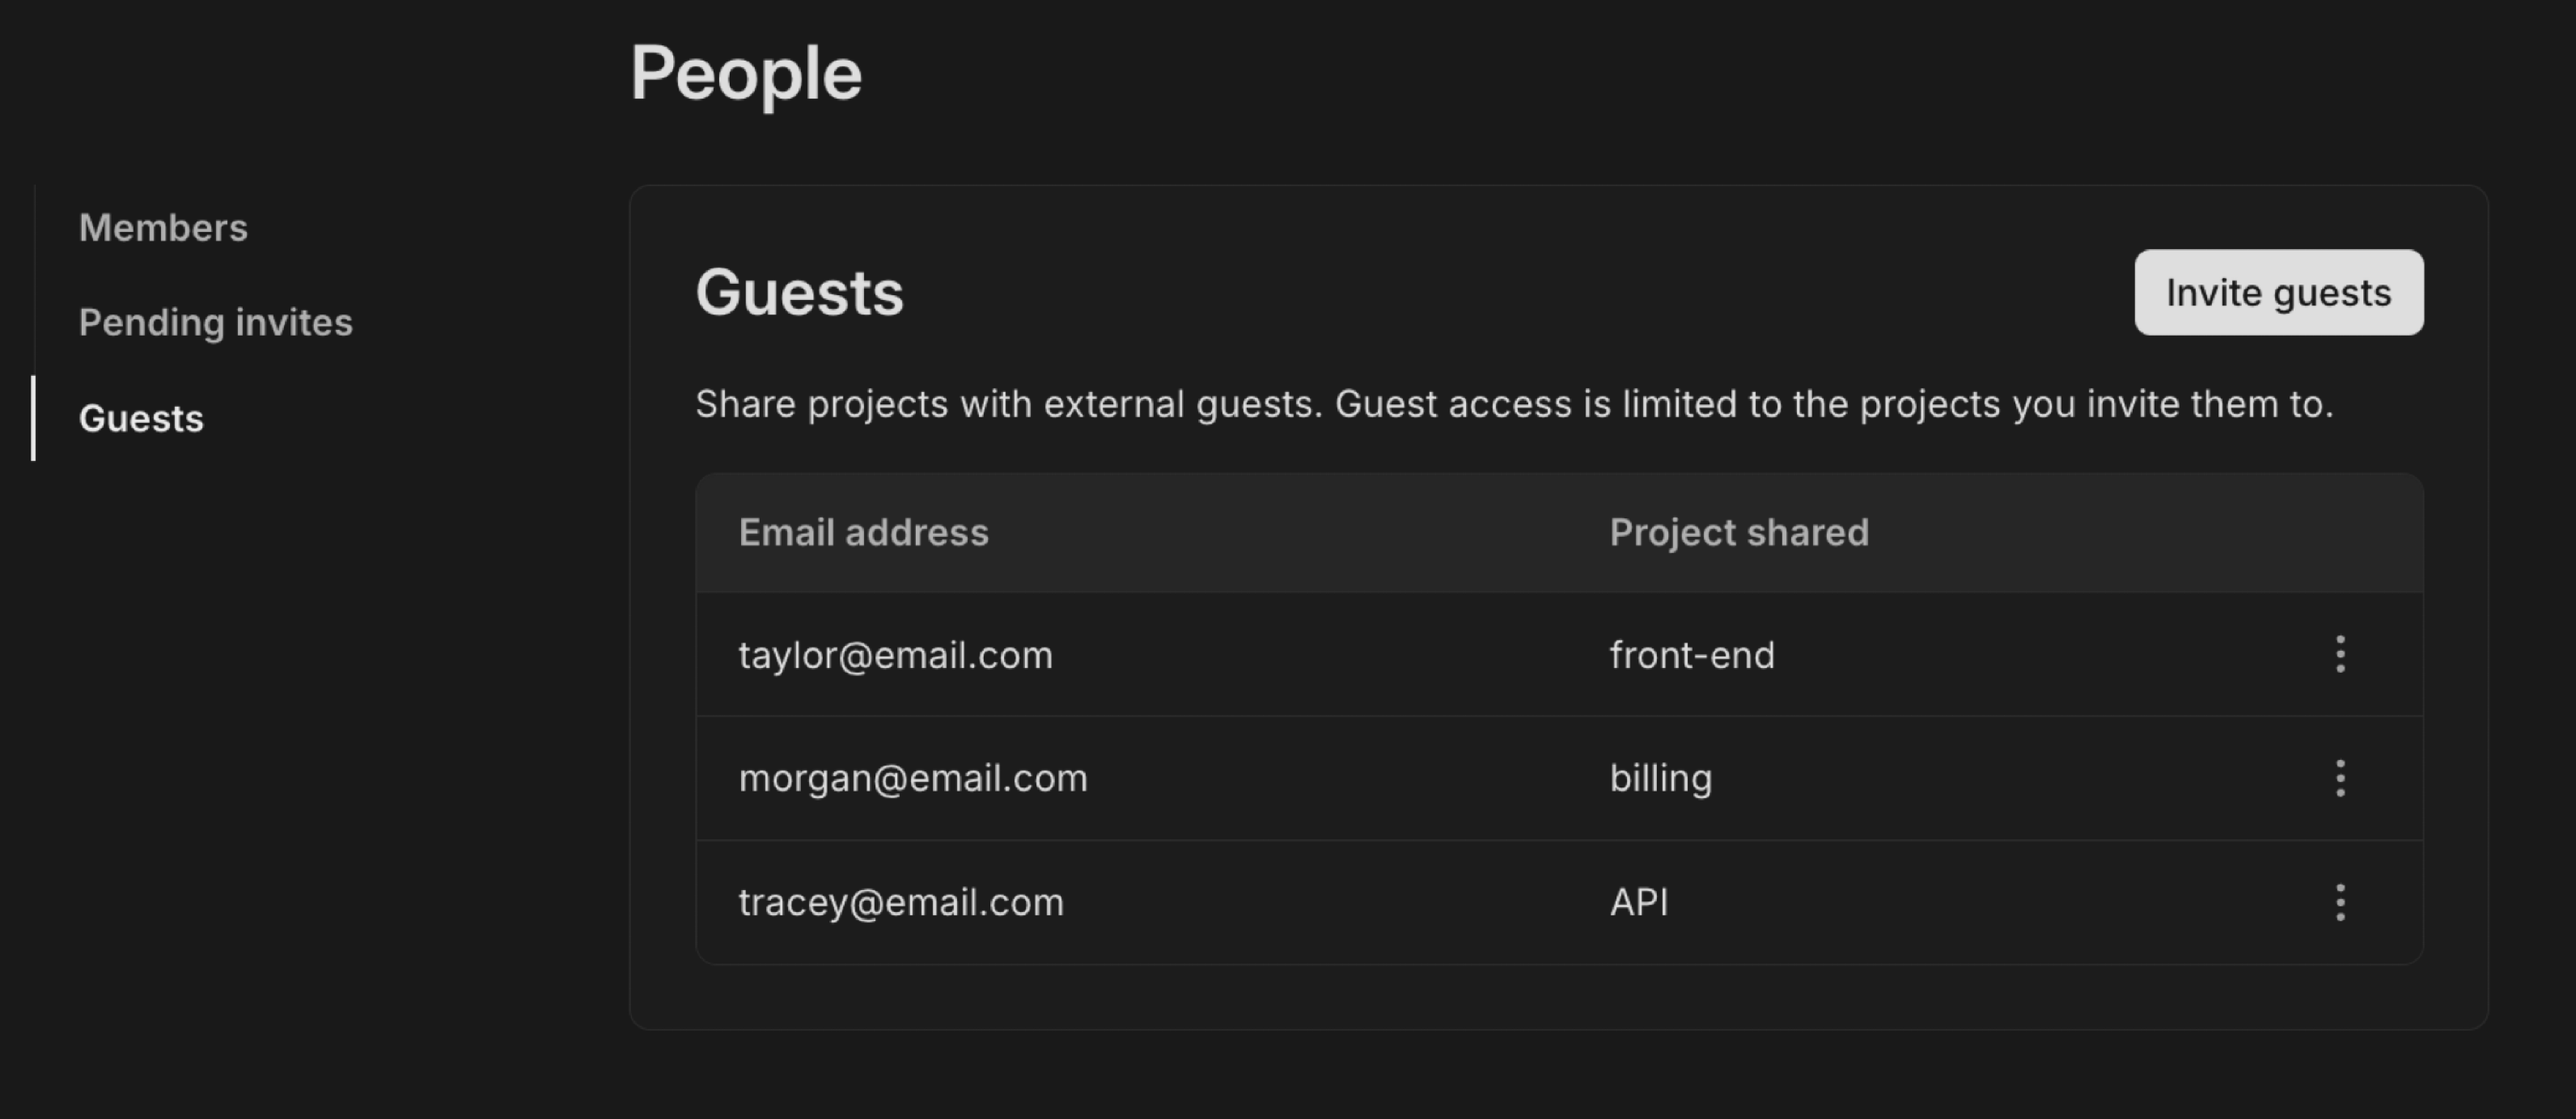
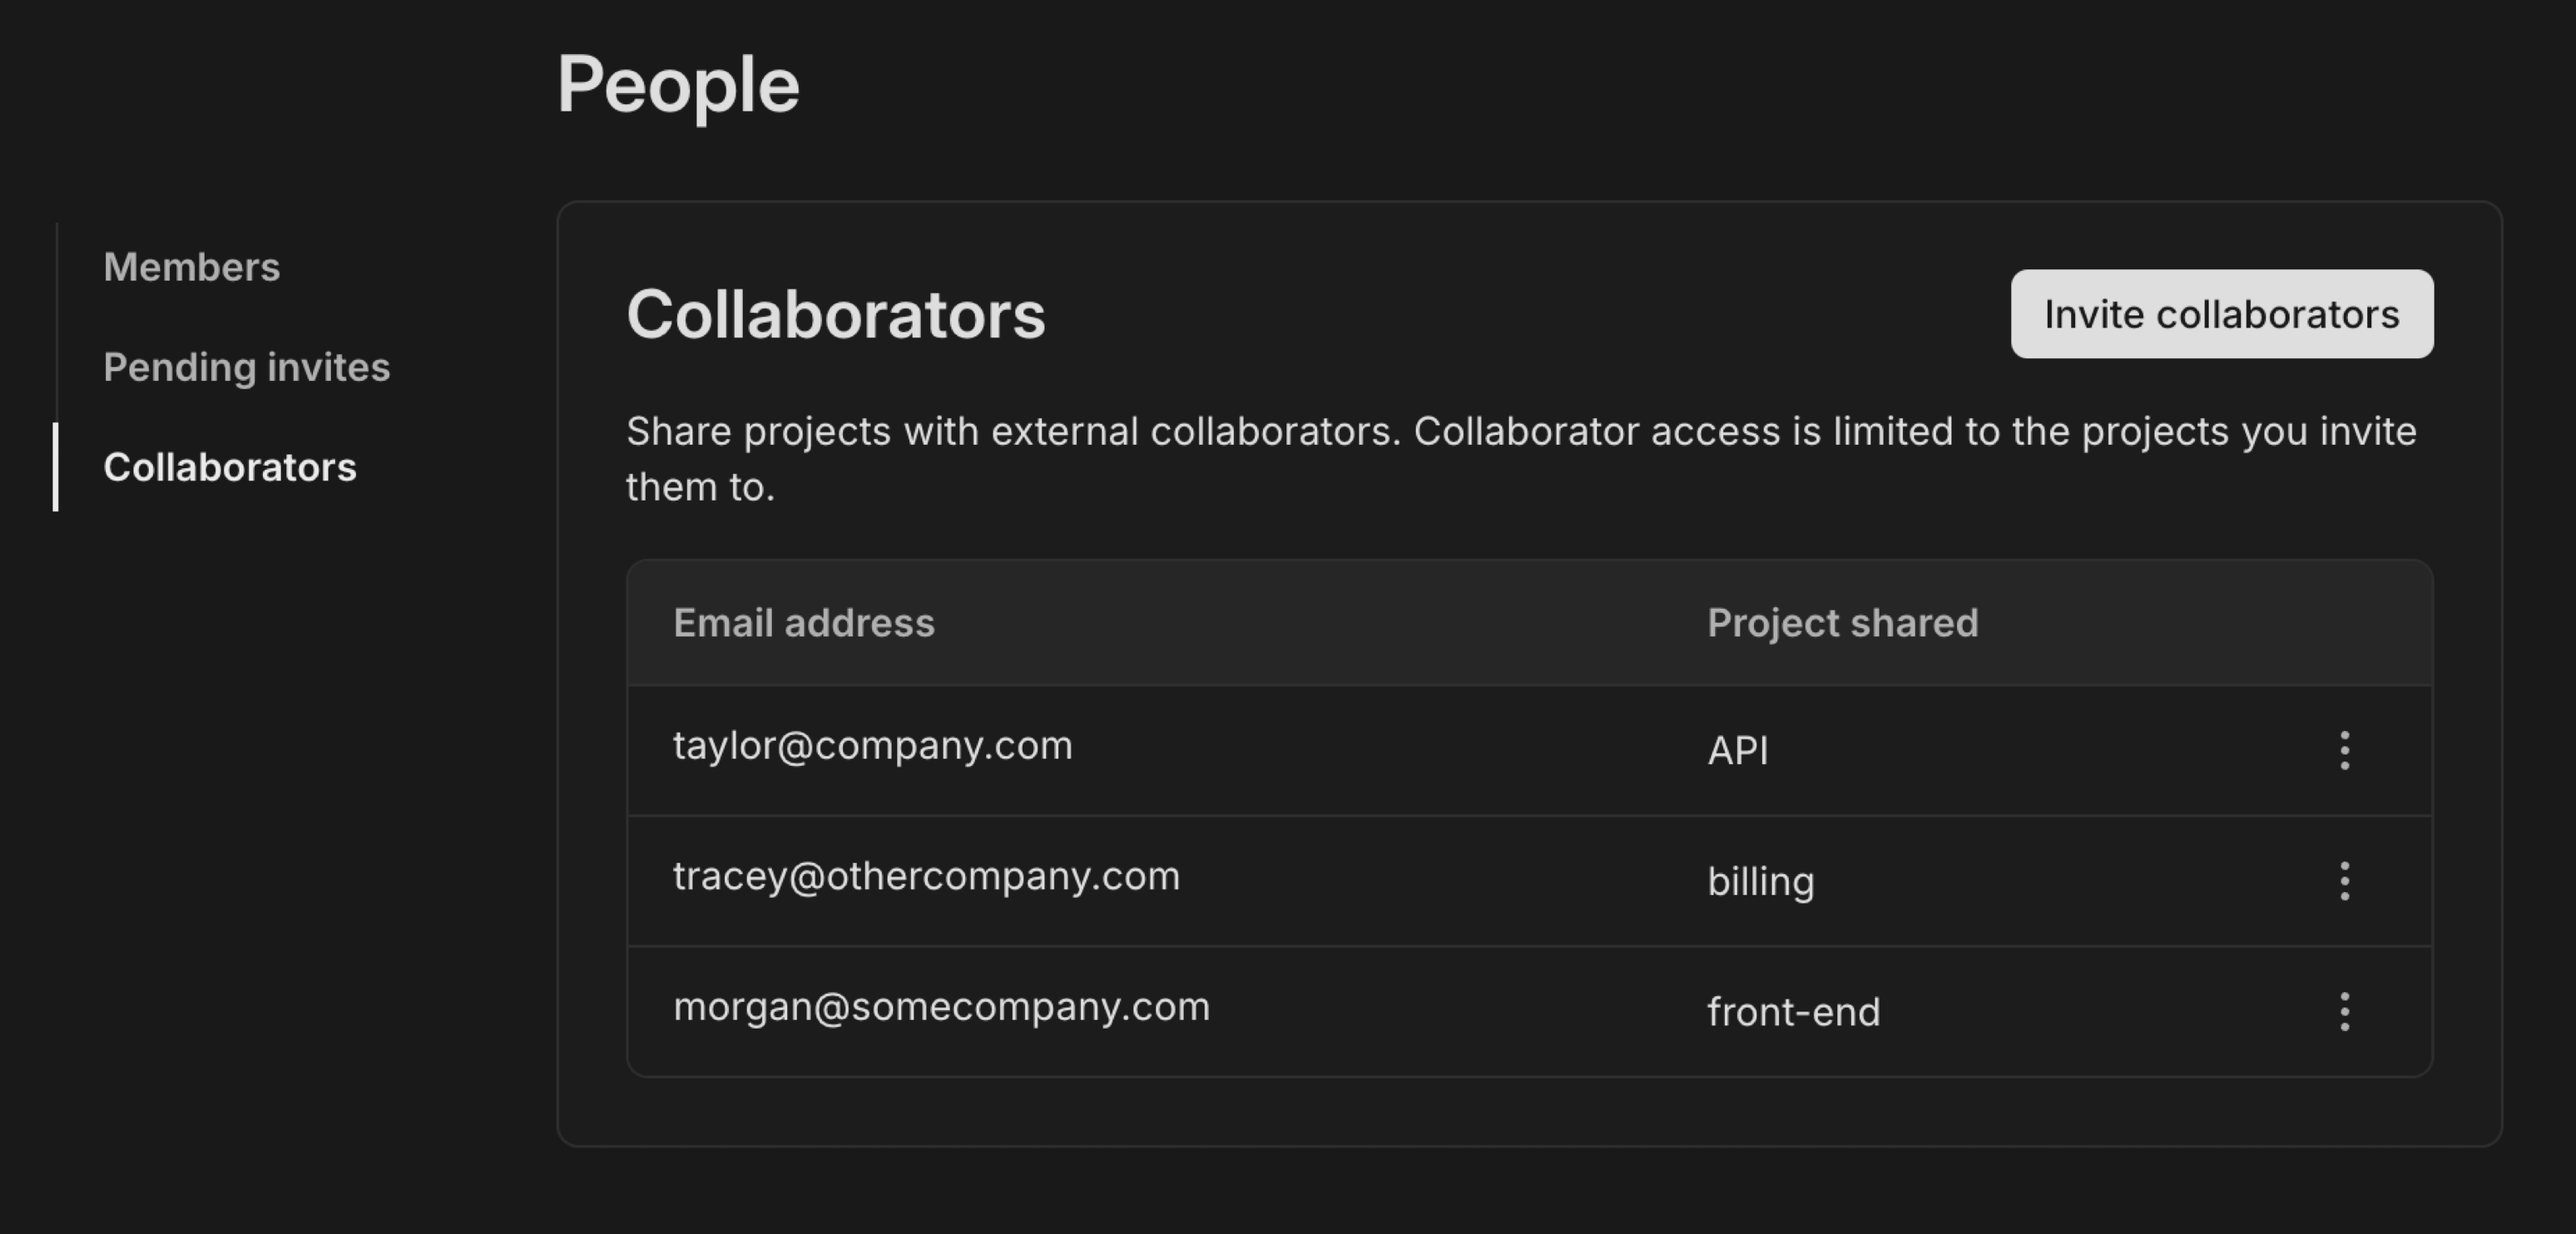
docs: change guest to collaborator

diff --git a/content/docs/manage/orgs-manage.md b/content/docs/manage/orgs-manage.md
@@ -6,14 +6,14 @@ updatedOn: '2024-09-19T14:13:04.118Z'
 
 <FeatureBeta/>
 
-Learn how to manage your organization's projects, invite Members and Guests, revise permissions, and oversee billing details. This section explains which specific actions each Member can take based on their assigned roles and permissions.
+Learn how to manage your organization's projects, invite Members and Collaborators, revise permissions, and oversee billing details. This section explains which specific actions each Member can take based on their assigned roles and permissions.
 
 <div style={{ display: 'flex' }}>
   <div style={{ flex: 1, paddingRight: '20px' }}>
     <ul>
       <li><a href="#switch-to-your-organization-account">Switch to your org</a></li>
       <li><a href="#invite-members">Invite Member</a></li>
-      <li><a href="#invite-guests">Invite Guests</a></li>
+      <li><a href="#invite-collaborators">Invite Collaborators</a></li>
       <li><a href="#set-permissions" style={{ cursor: 'pointer' }} >Set permissions</a></li>
     </ul>
   </div>
@@ -55,22 +55,22 @@ Permissions within the organization are exclusively managed by Admins. As an Adm
 
   ![organization members](/docs/manage/orgs_members_kebab.png 'no-border')
 
-## Invite Guests
+## Invite Collaborators
 
-All members can invite external Guests to collaborate on specific projects through [project sharing](/docs/guides/project-sharing-guide). Guests will not have access to the organization Dashboard but can access any projects shared with them from the **Projects** page of their personal account, under **Shared with you**. Guests can invite additional Guests to the project and remove existing Guests from the project.
+All members can invite external Collaborators to collaborate on specific projects through [project sharing](/docs/guides/project-sharing-guide). Collaborators will not have access to the organization Dashboard but can access any projects shared with them from the **Projects** page of their personal account, under **Shared with you**. Collaborators can invite additional Collaborators to the project and remove existing Collaborators from the project.
 
-![organization guests](/docs/manage/org_guests.png)
+![organization collaborators](/docs/manage/org_collaborators.png)
 
-To invite new Guests, click **Invite guests** and select the project you want to share, then add a comma-separated list of emails for anyone you want to give access to. These users will receive an email inviting them to the project.
+To invite new Collaborators, click **Invite collaborators** and select the project you want to share, then add a comma-separated list of emails for anyone you want to give access to. These users will receive an email inviting them to the project.
 
-### Manage Guests
+### Manage Collaborators
 
-Click the more options menu next to the row in the **Guests** table to manage Guest access. You have two options:
+Click the More Options menu next to the row in the **Collaborators** table to manage Collaborator access. You have two options:
 
-- **Convert to member** — Admins can promote the Guest to a full Member, granting access to all projects in the organization.
-- **Remove from project** — All members can revoke the Guest's access to the shared project.
+- **Convert to member** — Admins can promote the Collaborator to a full Member, granting access to all projects in the organization.
+- **Remove from project** — All members can revoke the Collaborator's access to the shared project.
 
-  ![guests more options menu](/docs/manage/orgs_guests_kebab.png 'no-border')
+  ![collaborators more options menu](/docs/manage/orgs_collaborators_kebab.png 'no-border')
 
 ## Create and delete projects
 

diff --git a/content/docs/manage/organizations.md b/content/docs/manage/organizations.md
@@ -21,16 +21,16 @@ Each organization is made up of three types of users:
 
 - **Admin** &#8212; Administrators have access to all projects in the organization. Additionally, admins manage all permissions, invitations, and billing details.
 - **Members** &#8212; Members have access to all the projects that belong to the organization. They need to be invited to the organization by an Admin.
-- **Guests** &#8212; Guests are people given limited access to particular projects, using [project sharing](/docs/guides/project-sharing-guide). They do not have access to the Organization dashboard. Projects will appear under the **Shared with you** grouping in their personal account.
+- **Collaborators** &#8212; Collaborators are people given limited access to particular projects, using [project sharing](/docs/guides/project-sharing-guide). They do not have access to the Organization dashboard. Projects will appear under the **Shared with you** grouping in their personal account.
 
 Here's a breakdown of what actions each role can take:
 
-| Action                                                                   | Admin | Member | Guest |
+| Action                                                                   | Admin | Member | Collaborator |
 | ------------------------------------------------------------------------ | :---: | :----: | :---: |
 | [Create projects](/docs/manage/orgs-manage#create-and-delete-projects)   |  ✅   |   ✅   |  ❌   |
 | [Delete projects](/docs/manage/orgs-manage#create-and-delete-projects)   |  ✅   |   ❌   |  ❌   |
 | Manage [members](/docs/manage/orgs-manage#invite-members)                |  ✅   |   ❌   |  ❌   |
-| Manage [guests](/docs/manage/orgs-manage#invite-guests) (share projects) |  ✅   |   ✅   |  ✅   |
+| Manage [collaborators](/docs/manage/orgs-manage#invite-collaborators) (share projects) |  ✅   |   ✅   |  ✅   |
 | [Set permissions](/docs/manage/orgs-manage#set-permissions)              |  ✅   |   ❌   |  ❌   |
 | [Manage billing](/docs/manage/orgs-manage#billing)                       |  ✅   |   ❌   |  ❌   |
 | [Delete organization](/docs/manage/orgs-manage#delete-an-organization)   |  ✅   |   ❌   |  ❌   |
